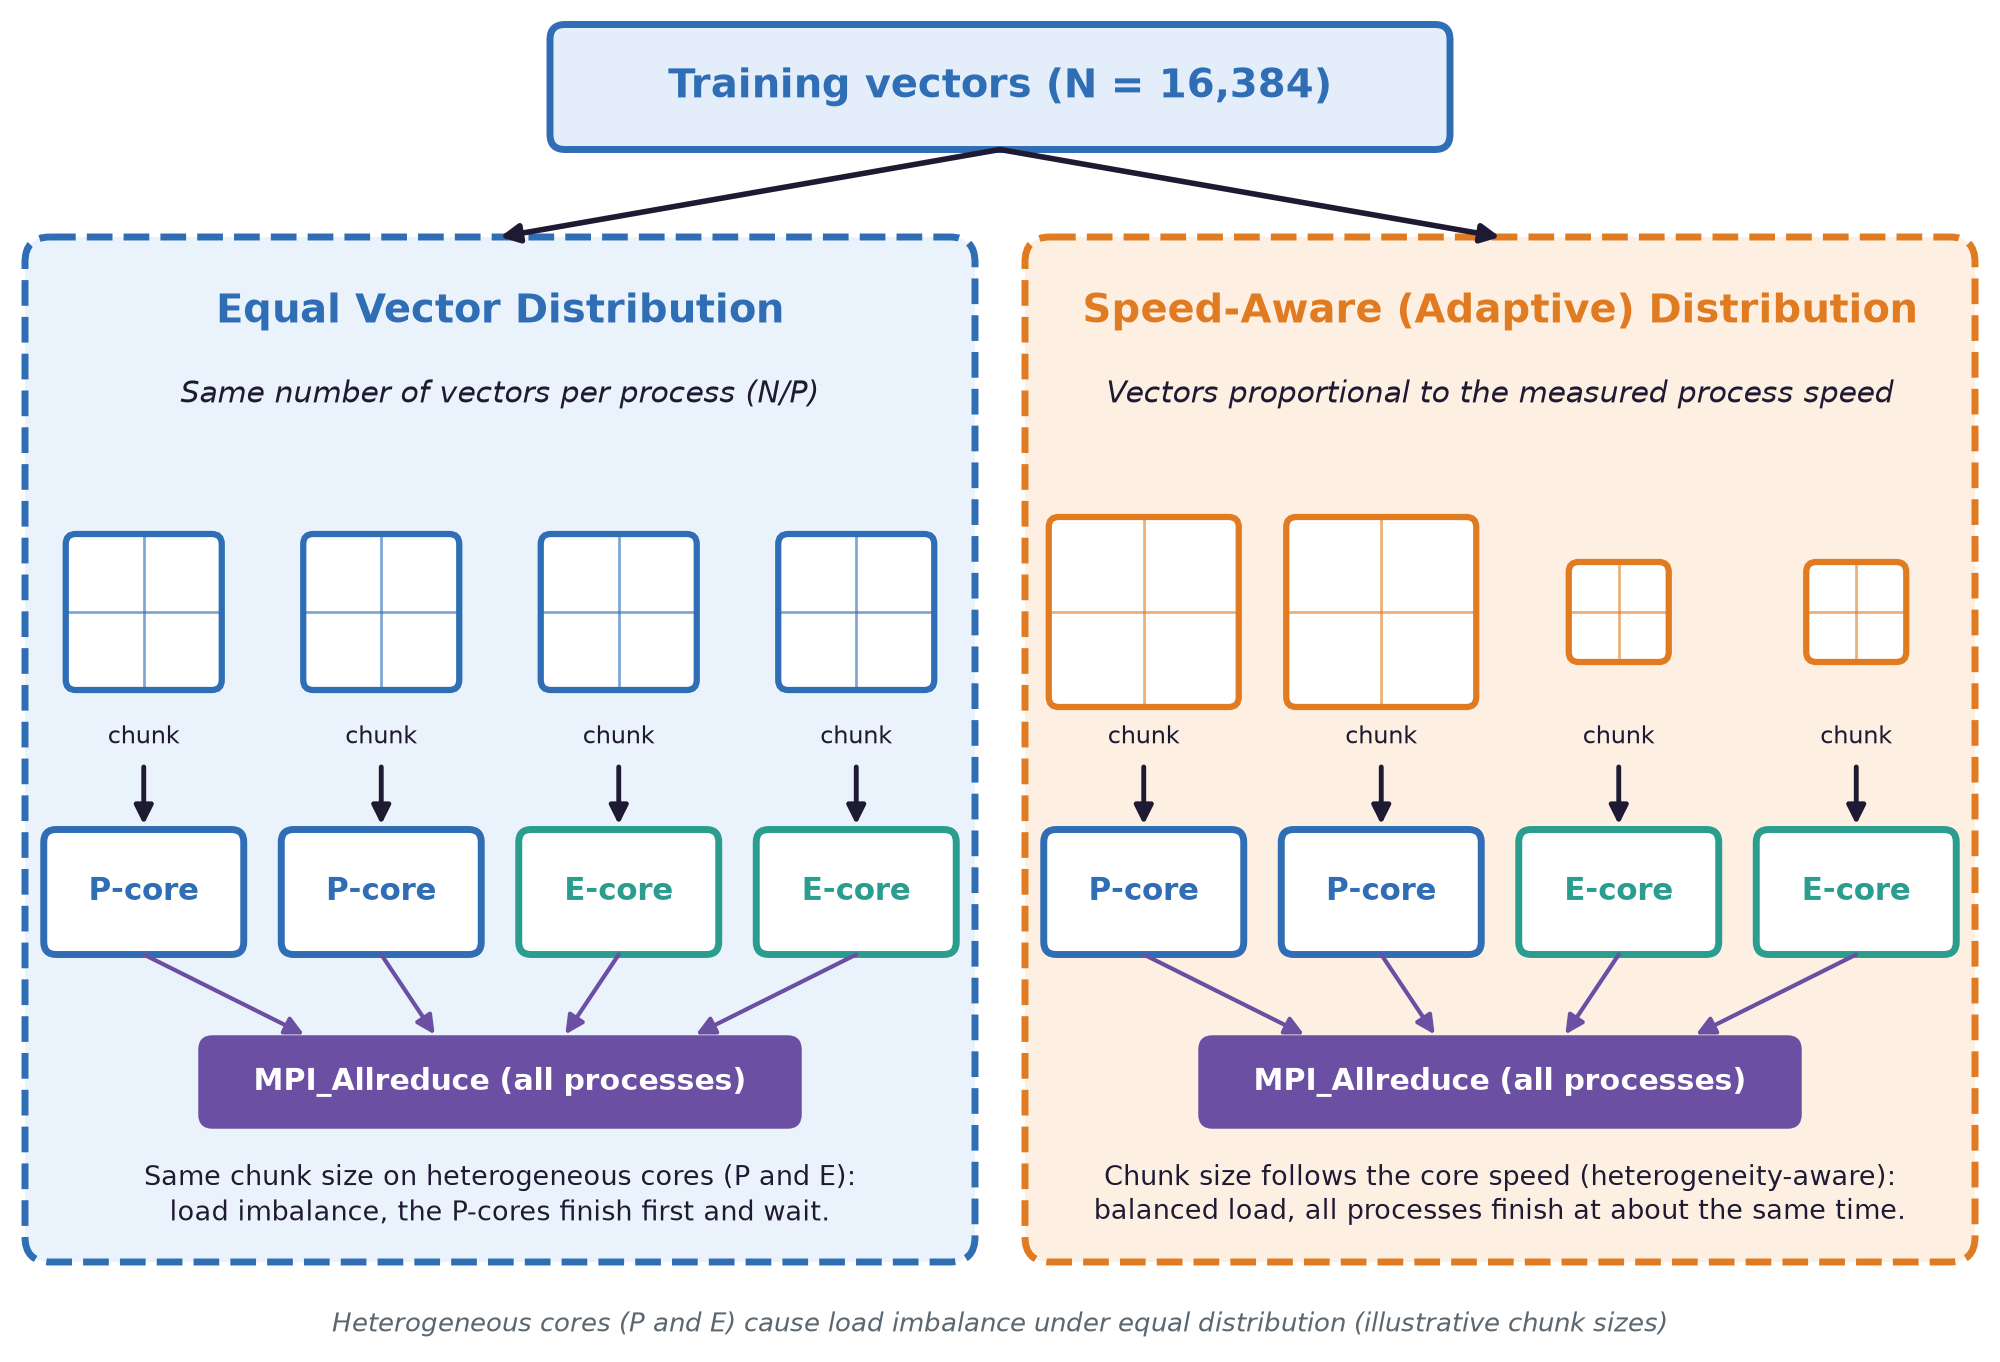
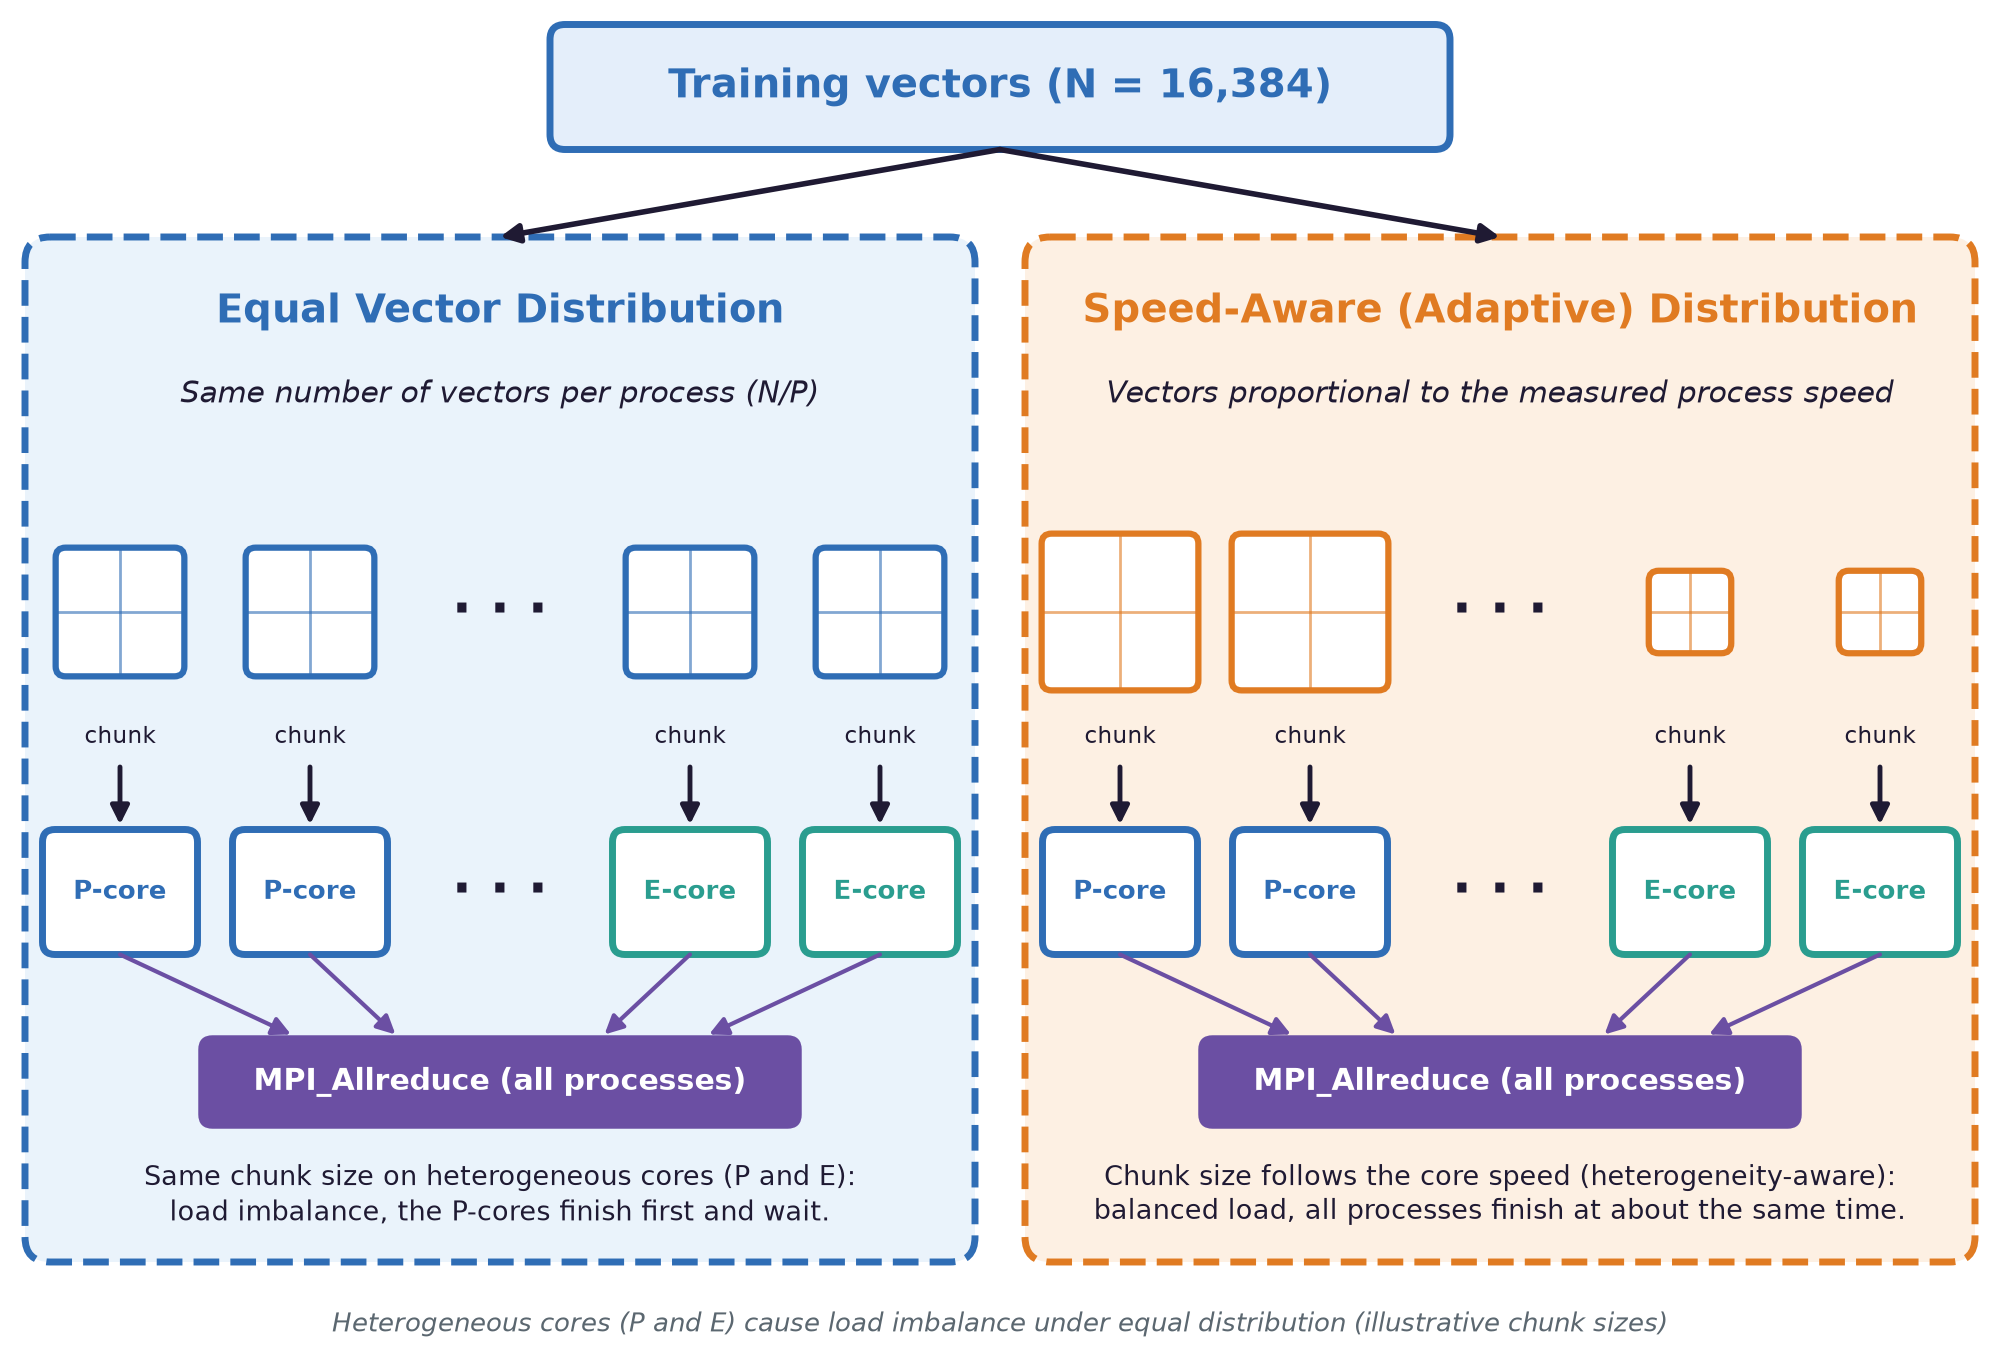
Workload figure: dots between P-core and E-core groups (more than two of each)
Claude-Session: https://claude.ai/code/session_01T6gEewJ8YaCdmnsfS34RJd

diff --git a/results/seminar/make_workload_fig.py b/results/seminar/make_workload_fig.py
@@ -16,28 +16,30 @@ panels=[(0.1,"Equal Vector Distribution","Same number of vectors per process (N/
          "Same chunk size on heterogeneous cores (P and E):\nload imbalance, the P-cores finish first and wait."),
         (4.1,"Speed-Aware (Adaptive) Distribution","Vectors proportional to the measured process speed","#FDF0E3",ORG,[0.95,0.95,0.5,0.5],
          "Chunk size follows the core speed (heterogeneity-aware):\nbalanced load, all processes finish at about the same time.")]
-cores=[("P-core",BLUE),("P-core",BLUE),("E-core",TEAL),("E-core",TEAL)]
+cores=[("P-core",BLUE),("P-core",BLUE),None,("E-core",TEAL),("E-core",TEAL)]
 for px,title,sub,fc,ec,sizes,note in panels:
+    sizes=[sizes[0],sizes[1],None,sizes[2],sizes[3]]
     pw=3.8
     box(px,0.95,pw,4.1,fc,ec,2,0.1,"--")
     ax.text(px+pw/2,1.25,title,ha="center",va="center",fontsize=11.6,fontweight="bold",color=ec)
     ax.text(px+pw/2,1.58,sub,ha="center",va="center",fontsize=8.6,color=INK,style="italic")
-    top.__class__ if False else None
-    # arrow from top box
     arrow(4,0.6,px+pw/2,0.95,INK,1.6)
-    colw=pw/4
-    for i,(sz,(cn,cc)) in enumerate(zip(sizes,cores)):
+    colw=pw/5
+    for i,(sz,cc_) in enumerate(zip(sizes,cores)):
         cx=px+colw*(i+0.5)
-        # data chunk (square, size shows workload)
-        s=sz*0.8
+        if sz is None:
+            ax.text(cx,2.45,"· · ·",ha="center",va="center",fontsize=15,fontweight="bold",color=INK)
+            ax.text(cx,3.57,"· · ·",ha="center",va="center",fontsize=15,fontweight="bold",color=INK)
+            continue
+        cn,cc=cc_
+        s_=sz*0.66
         cy=2.45
-        box(cx-s/2,cy-s/2,s,s,"white",ec,1.8,0.04)
-        g=s/2
-        ax.plot([cx-s/2,cx+s/2],[cy,cy],color=ec,lw=0.8,alpha=.6); ax.plot([cx,cx],[cy-s/2,cy+s/2],color=ec,lw=0.8,alpha=.6)
-        ax.text(cx,2.95,"chunk",ha="center",va="center",fontsize=7,color=INK)
+        box(cx-s_/2,cy-s_/2,s_,s_,"white",ec,1.8,0.04)
+        ax.plot([cx-s_/2,cx+s_/2],[cy,cy],color=ec,lw=0.8,alpha=.6); ax.plot([cx,cx],[cy-s_/2,cy+s_/2],color=ec,lw=0.8,alpha=.6)
+        ax.text(cx,2.95,"chunk",ha="center",va="center",fontsize=6.6,color=INK)
         arrow(cx,3.07,cx,3.3)
-        box(cx-0.4,3.32,0.8,0.5,"white",cc,2,0.05)
-        ax.text(cx,3.57,cn,ha="center",va="center",fontsize=8.8,fontweight="bold",color=cc)
+        box(cx-0.31,3.32,0.62,0.5,"white",cc,2,0.05)
+        ax.text(cx,3.57,cn,ha="center",va="center",fontsize=7.6,fontweight="bold",color=cc)
         arrow(cx,3.82,px+pw/2+(cx-px-pw/2)*0.55,4.14,PUR,1.2)
     box(px+pw/2-1.2,4.15,2.4,0.36,PUR,PUR,1,0.05)
     ax.text(px+pw/2,4.33,"MPI_Allreduce (all processes)",ha="center",va="center",fontsize=8.6,fontweight="bold",color="white")
